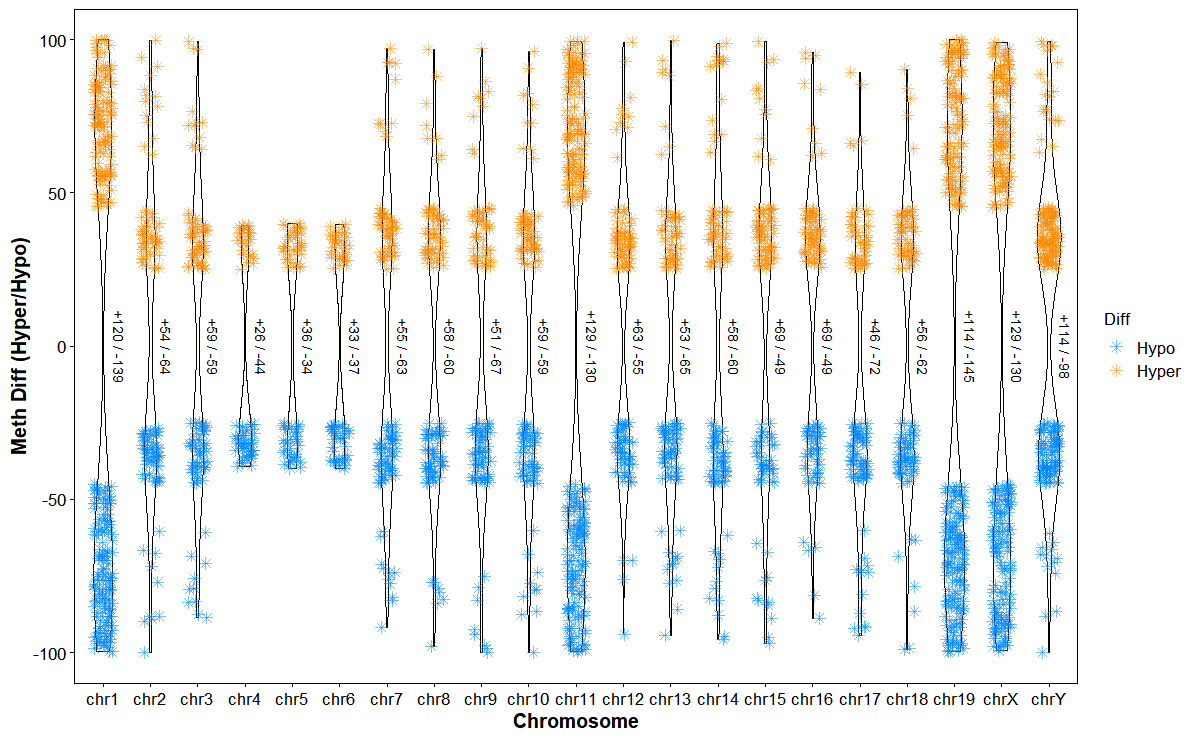
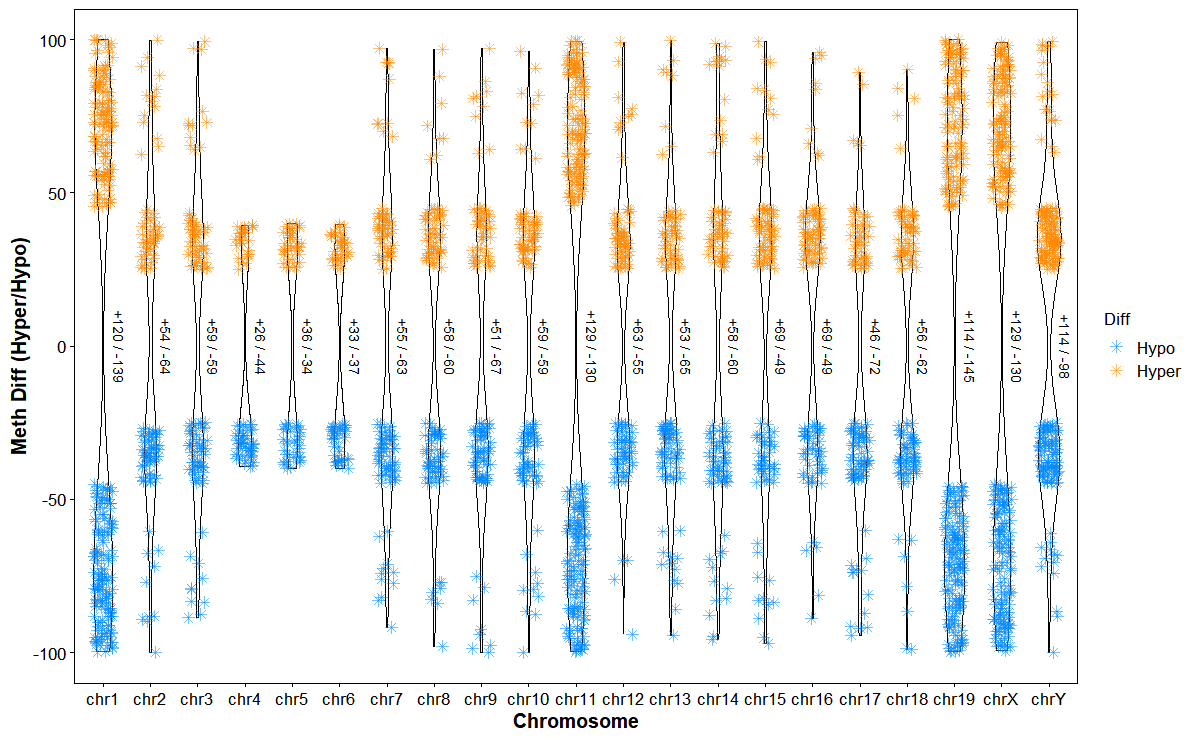
Update README.Rmd and md

diff --git a/README.md b/README.md
@@ -3,13 +3,16 @@ GAnnoViz
 
 - [GAnnoViz](#gannoviz)
   - [1. Introduction](#1-introduction)
-  - [2. Installation](#2-installation)
-  - [3. Shiny App](#3-shiny-app)
-  - [4. Extract Features](#4-extract-features)
-  - [5. Plot Structure](#5-plot-structure)
-  - [6. DEG Anno & Viz](#6-deg-anno--viz)
-  - [7. SNP Anno & Plot](#7-snp-anno--plot)
-  - [8. DMG Anno & Plot](#8-dmg-anno--plot)
+  - [2. Install & Library](#2-install--library)
+  - [3. Local Shinyapp](#3-local-shinyapp)
+  - [4. Prepare Datasets](#4-prepare-datasets)
+  - [5. Retrieve Ensembl](#5-retrieve-ensembl)
+  - [6. Extract Features](#6-extract-features)
+  - [7. Plot Structure](#7-plot-structure)
+  - [8. DEG Anno & Viz](#8-deg-anno--viz)
+  - [9. SNP Anno & Plot](#9-snp-anno--plot)
+  - [10. DMG Anno & Plot](#10-dmg-anno--plot)
+  - [11. Session Information](#11-session-information)
 
 # GAnnoViz
 
@@ -17,19 +20,28 @@ GAnnoViz
 
 **GAnnoViz: a R package for genomic annotation and visualization.**
 
-GAnnoViz is a cloud-integrated framework for chromosome-level feature annotation 
-and visualization in multi-omics research. It provides analytical and 
-visualization capabilities through R packages, while integrating a cloud 
-platform to enable real-time interactive data analysis. The current release 
-consists of 26 functions and three datasets, collectively addressing four core 
-analytical requirements: genomic features extraction, gene structure drawing, 
-sliding-window annotation, and multi-omics chromosome-level visualization
+***GAnnoViz is a cloud-integrated framework for chromosome-level feature
+annotation and visualization in multi-omics research***. It provides
+analytical and visualization capabilities through R packages, while
+integrating a cloud platform to enable real-time interactive data
+analysis. The current release consists of **30+ functions** and three
+datasets, collectively addressing four core analytical requirements:
+genomic features extraction, gene structure drawing, sliding-window
+annotation, and multi-omics chromosome-level visualization.
 
-**Open Source Code:** <https://github.com/benben-miao/GAnnoViz/>
+The **source code** and **example datasets** are available in the GitHub
+repository under an open-source license, facilitating reproducibility
+and community-driven development through issue reporting and pull
+requests.
 
-**Documents API**: <https://benben-miao.github.io/GAnnoViz/>
+**Open Source Code:** <a href="https://github.com/benben-miao/GAnnoViz/"
+class="uri"><strong><em>https://github.com/benben-miao/GAnnoViz/</em></strong></a>
 
-**Cloud Platform**: <https://shiny.hiplot.cn/gannoviz/>
+**Documents API**: <a href="https://benben-miao.github.io/GAnnoViz/"
+class="uri"><strong><em>https://benben-miao.github.io/GAnnoViz/</em></strong></a>
+
+**Cloud Platform**: <a href="https://shiny.hiplot.cn/gannoviz/"
+class="uri"><strong><em>https://shiny.hiplot.cn/gannoviz/</em></strong></a>
 
 <figure>
 <img src="https://benben-miao.github.io/GAnnoViz/image/Shinyapp.png"
@@ -37,21 +49,98 @@ alt="Shinyapp UI" />
 <figcaption aria-hidden="true">Shinyapp UI</figcaption>
 </figure>
 
-## 2. Installation
+## 2. Install & Library
+
+**Requirement**: R version \> v4.0.0
+
+**Recommended**: R version \>= v4.5.0
 
 ``` r
-# R version >= 4.0.0
-
-
+# Install from GitHub
+install.packages("remotes")
+remotes::install_github("benben-miao/GAnnoViz")
 ```
 
-## 3. Shiny App
+## 3. Local Shinyapp
 
 ``` r
-# GAnnoVizApp()
+# Running GAnnoVizApp on Rstudio or Rconsole
+GAnnoViz::GAnnoVizApp()
 ```
 
-## 4. Extract Features
+## 4. Prepare Datasets
+
+### 4.1 Reference genomic annotation
+
+The **built-in** example genomic annotations and multi-omics datasets in
+the GAnnoViz package and its accompanying cloud platform are provided
+for demonstration purposes, enabling users to rapidly prepare their own
+input data by reference. The structure of these example datasets can be
+inspected through dedicated functions, and the files are publicly
+accessible for download from both the source code repository and the
+cloud platform.
+
+The default reference genomic annotation employed is the latest version
+of the **mouse (*Mus musculus*)** genome, **GRCm39.115**, sourced from
+the **Ensembl database v115** and formatted in standard GFF3. This
+annotation includes complete chromosomes, gene coordinate information,
+and well-defined hierarchical feature relationships. The current and
+historical genomic annotation versions for **humans and other key
+species** can be obtained directly from Ensembl, and GAnnoViz supports
+the parsing of newly assembled genomic annotation.
+
+**Ensembl Genomic Annotation:**
+<https://ftp.ensembl.org/pub/release-115/gff3/>
+
+**Ensembl release 115: Species GFF3 349**
+
+### 4.2 Multi-omics result datasets
+
+All multi-omics example datasets are simulated for illustrative purposes
+and adhere the widely adopted formats in the field. Standard gene
+differential expression matrices are generated using **DESeq2 v1.50.2**,
+with differentially expressed genes (**DEGs**) identified by
+***`|log2(FoldChange)| > 1`*** and ***`padj < 0.05`***. Differential
+methylation results are generated using **MethylKit v1.36.0**, with
+differentially methylated regions (**DMRs**) identified by
+***`|meth.diff| > 25`*** and ***`qvalue < 0.05`***. Data files can be
+directly loaded into standard R data objects via built-in reading
+functions or through the cloud platform’s data upload interface,
+eliminating the need for users to pre-process genome annotations or
+multi-omics results into tabular formats prior to analysis.
+
+## 5. Retrieve Ensembl
+
+### Retrieve Ensembl Species
+
+``` r
+species_list <- retrieve_ensembl_species(
+  release = 115)
+
+head(species_list)
+#>                       Species                          ID
+#> 1 Acanthochromis Polyacanthus acanthochromis_polyacanthus
+#> 2             Accipiter Nisus             accipiter_nisus
+#> 3      Ailuropoda Melanoleuca      ailuropoda_melanoleuca
+#> 4            Amazona Collaria            amazona_collaria
+#> 5     Amphilophus Citrinellus     amphilophus_citrinellus
+#> 6        Amphiprion Ocellaris        amphiprion_ocellaris
+```
+
+### Retrieve Ensembl Species
+
+``` r
+mmu_gff3_file <- retrieve_ensembl_gff3(
+  species = "mus_musculus",
+  release = 115,
+  only_chr = TRUE,
+  dest_dir = "."
+)
+
+mmu_gff3_file
+```
+
+## 6. Extract Features
 
 ### Extract Genes
 
@@ -159,7 +248,7 @@ head(utr5_range)
 #>    <integer> <integer> <integer>
 ```
 
-## 5. Plot Structure
+## 7. Plot Structure
 
 ### Plot gene stats for chromosomes
 
@@ -324,7 +413,7 @@ plot_chrom_heatmap(
 
 <img src="man/figures/README-plot_chrom_heatmap-1.png" style="display: block; margin: auto;" />
 
-## 6. DEG Anno & Viz
+## 8. DEG Anno & Viz
 
 ### Annotate differentially expressed genes (DEGs) with chromosome positions
 
@@ -440,7 +529,7 @@ plot_deg_exp(
 
 <img src="man/figures/README-plot_deg_exp-1.png" style="display: block; margin: auto;" />
 
-## 7. SNP Anno & Plot
+## 9. SNP Anno & Plot
 
 ### Annotate FST slide windows with genomic features
 
@@ -608,7 +697,7 @@ plot_snp_anno(
 
 <img src="man/figures/README-plot_snp_anno-1.png" style="display: block; margin: auto;" />
 
-## 8. DMG Anno & Plot
+## 10. DMG Anno & Plot
 
 ### Plot differentially methylated regions (DMRs) hyper/hypo distributions by chromosome
 
@@ -729,3 +818,85 @@ plot_dmg_trend(
 ```
 
 <img src="man/figures/README-plot_dmg_trend-1.png" style="display: block; margin: auto;" />
+
+## 11. Session Information
+
+``` r
+sessionInfo()
+#> R version 4.5.2 (2025-10-31 ucrt)
+#> Platform: x86_64-w64-mingw32/x64
+#> Running under: Windows 11 x64 (build 26220)
+#> 
+#> Matrix products: default
+#>   LAPACK version 3.12.1
+#> 
+#> locale:
+#> [1] LC_COLLATE=Chinese (Simplified)_China.utf8 
+#> [2] LC_CTYPE=Chinese (Simplified)_China.utf8   
+#> [3] LC_MONETARY=Chinese (Simplified)_China.utf8
+#> [4] LC_NUMERIC=C                               
+#> [5] LC_TIME=Chinese (Simplified)_China.utf8    
+#> 
+#> time zone: Etc/GMT-8
+#> tzcode source: internal
+#> 
+#> attached base packages:
+#> [1] stats     graphics  grDevices utils     datasets  methods   base     
+#> 
+#> other attached packages:
+#> [1] ggplot2_4.0.1  GAnnoViz_0.1.0
+#> 
+#> loaded via a namespace (and not attached):
+#>   [1] tidyselect_1.2.1            dplyr_1.1.4                
+#>   [3] farver_2.1.2                blob_1.2.4                 
+#>   [5] filelock_1.0.3              Biostrings_2.78.0          
+#>   [7] S7_0.2.1                    bitops_1.0-9               
+#>   [9] fastmap_1.2.0               RCurl_1.98-1.17            
+#>  [11] BiocFileCache_3.0.0         GenomicAlignments_1.46.0   
+#>  [13] XML_3.99-0.20               digest_0.6.39              
+#>  [15] lifecycle_1.0.4             KEGGREST_1.50.0            
+#>  [17] RSQLite_2.4.5               magrittr_2.0.4             
+#>  [19] compiler_4.5.2              progress_1.2.3             
+#>  [21] rlang_1.1.6                 tools_4.5.2                
+#>  [23] CMplot_4.5.1                yaml_2.3.11                
+#>  [25] rtracklayer_1.70.0          knitr_1.50                 
+#>  [27] labeling_0.4.3              prettyunits_1.2.0          
+#>  [29] S4Arrays_1.10.0             bit_4.6.0                  
+#>  [31] curl_7.0.0                  DelayedArray_0.36.0        
+#>  [33] xml2_1.5.1                  RColorBrewer_1.1-3         
+#>  [35] abind_1.4-8                 BiocParallel_1.44.0        
+#>  [37] purrr_1.2.0                 txdbmaker_1.6.0            
+#>  [39] withr_3.0.2                 BiocGenerics_0.56.0        
+#>  [41] grid_4.5.2                  stats4_4.5.2               
+#>  [43] colorspace_2.1-2            scales_1.4.0               
+#>  [45] dichromat_2.0-0.1           biomaRt_2.66.0             
+#>  [47] SummarizedExperiment_1.40.0 cli_3.6.5                  
+#>  [49] rmarkdown_2.30              crayon_1.5.3               
+#>  [51] generics_0.1.4              otel_0.2.0                 
+#>  [53] rstudioapi_0.17.1           httr_1.4.7                 
+#>  [55] rjson_0.2.23                DBI_1.2.3                  
+#>  [57] cachem_1.1.0                stringr_1.6.0              
+#>  [59] splines_4.5.2               parallel_4.5.2             
+#>  [61] AnnotationDbi_1.72.0        XVector_0.50.0             
+#>  [63] restfulr_0.0.16             matrixStats_1.5.0          
+#>  [65] vctrs_0.6.5                 Matrix_1.7-4               
+#>  [67] jsonlite_2.0.0              hms_1.1.4                  
+#>  [69] IRanges_2.44.0              S4Vectors_0.48.0           
+#>  [71] bit64_4.6.0-1               GenomicFeatures_1.62.0     
+#>  [73] glue_1.8.0                  codetools_0.2-20           
+#>  [75] shape_1.4.6.1               stringi_1.8.7              
+#>  [77] gtable_0.3.6                GenomeInfoDb_1.46.2        
+#>  [79] BiocIO_1.20.0               GenomicRanges_1.62.0       
+#>  [81] UCSC.utils_1.6.0            tibble_3.3.0               
+#>  [83] pillar_1.11.1               rappdirs_0.3.3             
+#>  [85] htmltools_0.5.9             Seqinfo_1.0.0              
+#>  [87] circlize_0.4.17             R6_2.6.1                   
+#>  [89] dbplyr_2.5.1                httr2_1.2.2                
+#>  [91] evaluate_1.0.5              Biobase_2.70.0             
+#>  [93] lattice_0.22-7              png_0.1-8                  
+#>  [95] Rsamtools_2.26.0            cigarillo_1.0.0            
+#>  [97] memoise_2.0.1               nlme_3.1-168               
+#>  [99] SparseArray_1.10.2          mgcv_1.9-4                 
+#> [101] xfun_0.54                   GlobalOptions_0.1.3        
+#> [103] MatrixGenerics_1.22.0       pkgconfig_2.0.3
+```
